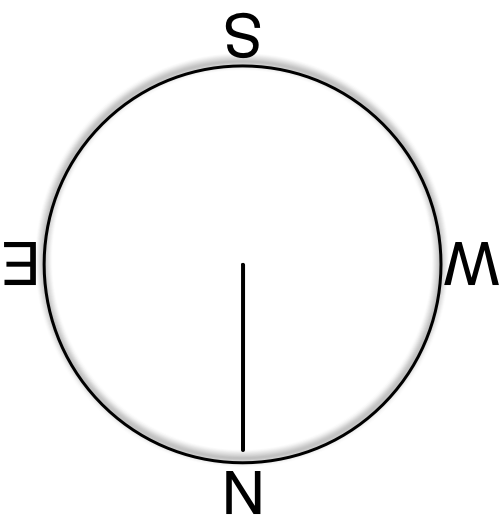
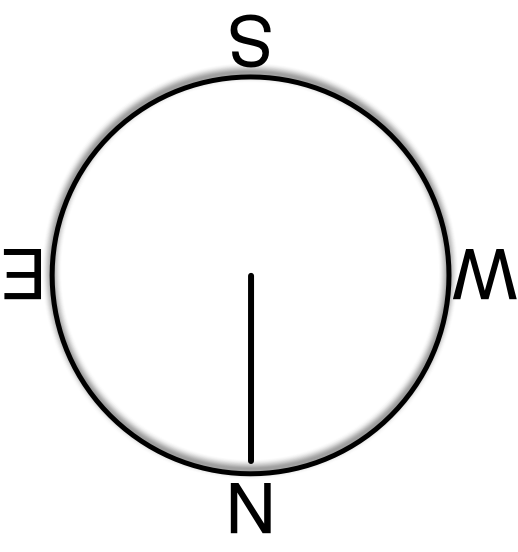
start doing uialerm table

Changed region(s): [[0.0, 0.0, 1.0, 0.966]]

diff --git a/GvaDemo/GvaDemo/GvaView.m b/GvaDemo/GvaDemo/GvaView.m
@@ -80,9 +80,9 @@
     UIGraphicsPushContext(context);
     CGContextBeginPath(context);
     
-    CGContextMoveToPoint(context, 297,203);
-    CGContextAddLineToPoint(context, 291, 223);
-    CGContextAddLineToPoint(context, 303, 223);
+    CGContextMoveToPoint(context, 298,203);
+    CGContextAddLineToPoint(context, 292, 223);
+    CGContextAddLineToPoint(context, 304, 223);
     
     CGContextClosePath(context);
     

diff --git a/GvaDemo/GvaDemo/GvaViewController.m b/GvaDemo/GvaDemo/GvaViewController.m
@@ -25,7 +25,7 @@
 #define RECONFIGURABEL_BUTTON_RIGHT CGRectMake(895,185-CALIBRATION,63,60)
 #define RECONFIGURABEL_BUTTON_GAP   68
 
-#define COMPASS                     CGRectMake(248,185-CALIBRATION,100,106)
+#define COMPASS                     CGRectMake(248,185-CALIBRATION,103.6,110.4)
 
 @interface GvaViewViewController ()
 
